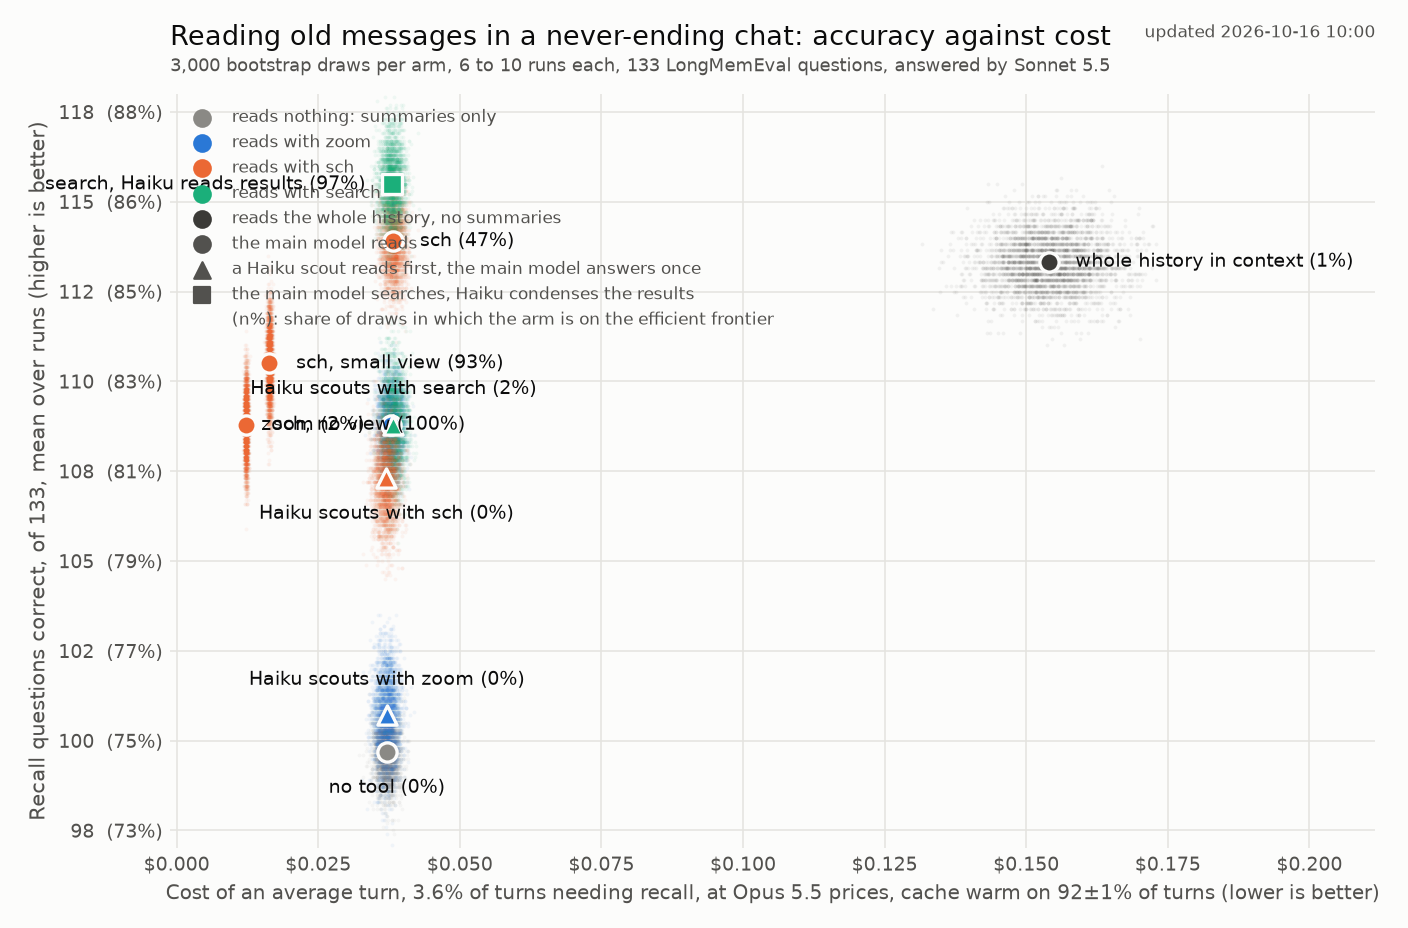
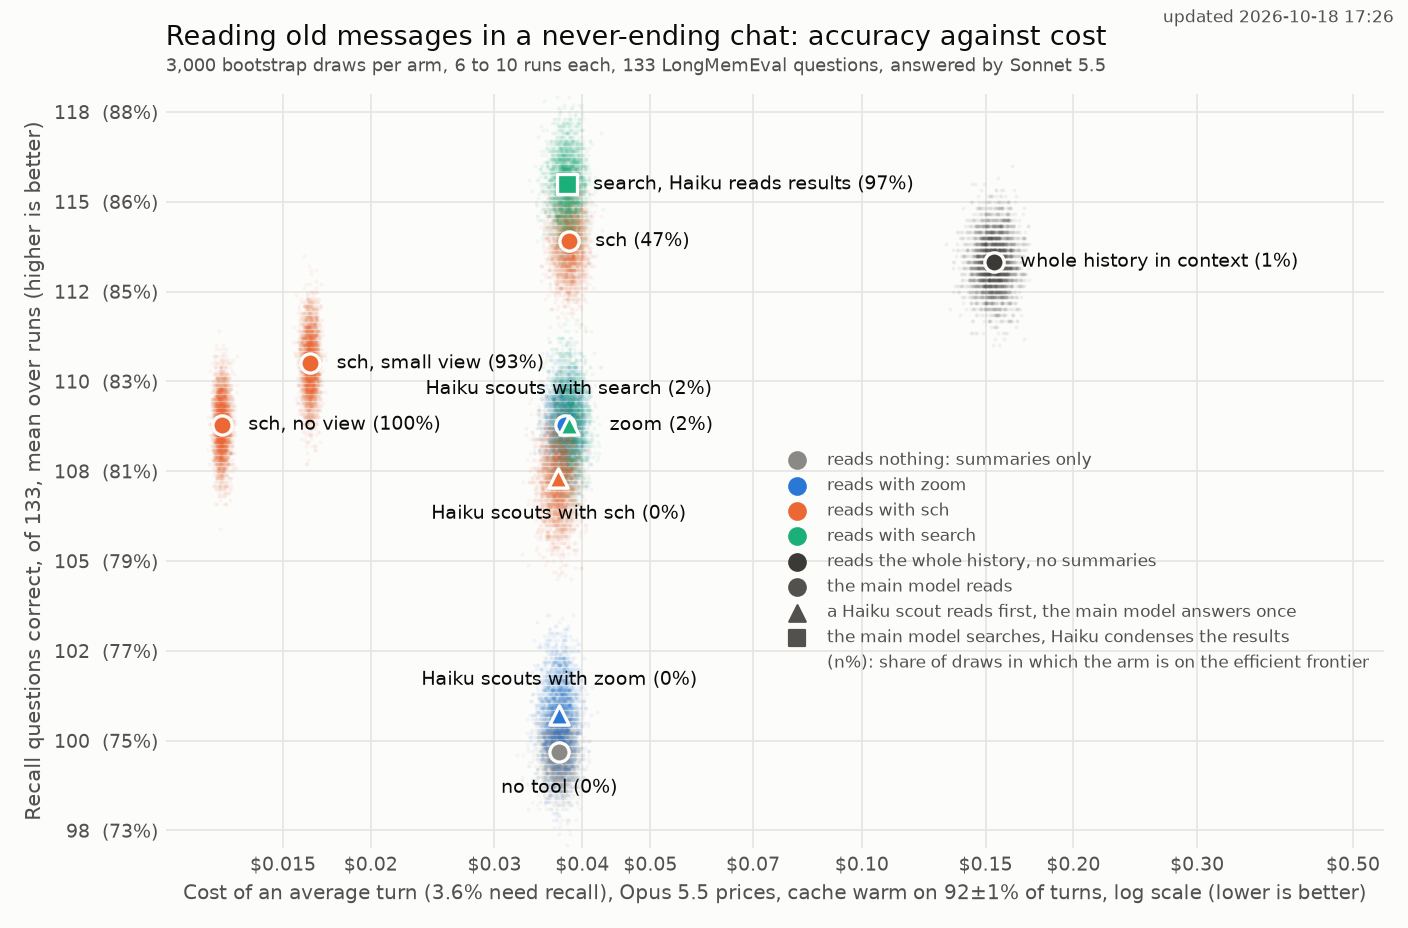
Explain how pricing every turn changes which designs are worth choosing, and redraw the charts
The charts now use a logarithmic cost axis, so the designs between a cent and fifteen cents per turn are spread apart, with the legend in an empty part of each chart.

diff --git a/evals/search-tools/README.md b/evals/search-tools/README.md
@@ -14,6 +14,8 @@ Most real turns need no history at all: in my own coding-agent use about one tur
 
 ![Recall questions correct against the cost of an average turn](average_turn.png)
 
+Counting every turn changes which designs are worth choosing, while their accuracy stays where it was. On recall turns alone, the designs that save the main model work look cheapest: a Haiku scout answers in one main call, and a Haiku reader keeps search results short. Over every turn, those savings shrink to almost nothing, because they apply only on the rare turn that looks something up, while the scout's extra Haiku call is paid on every turn. All designs that carry the full view then cost about the same, and the choice among them comes down to accuracy, where the main model searching for itself leads. The designs that carry a smaller view, or none, become the cheapest by far, because carrying the view is the cost every turn pays. The whole history in context stays the most expensive on both charts, since every one of its turns rereads everything.
+
 ## The designs compared
 
 All but the last two keep endchat's view of summaries and differ only in how the model reaches the original messages:
